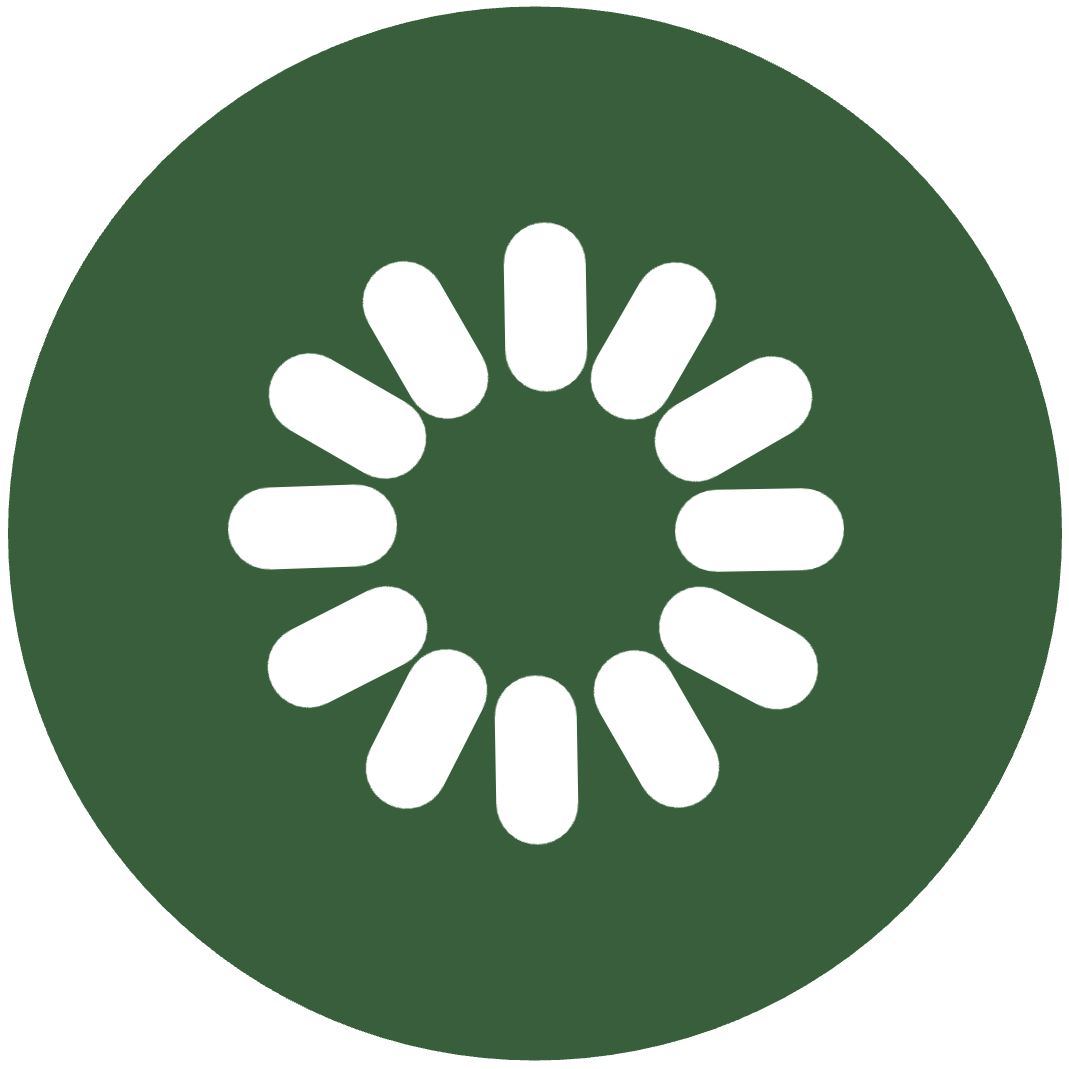
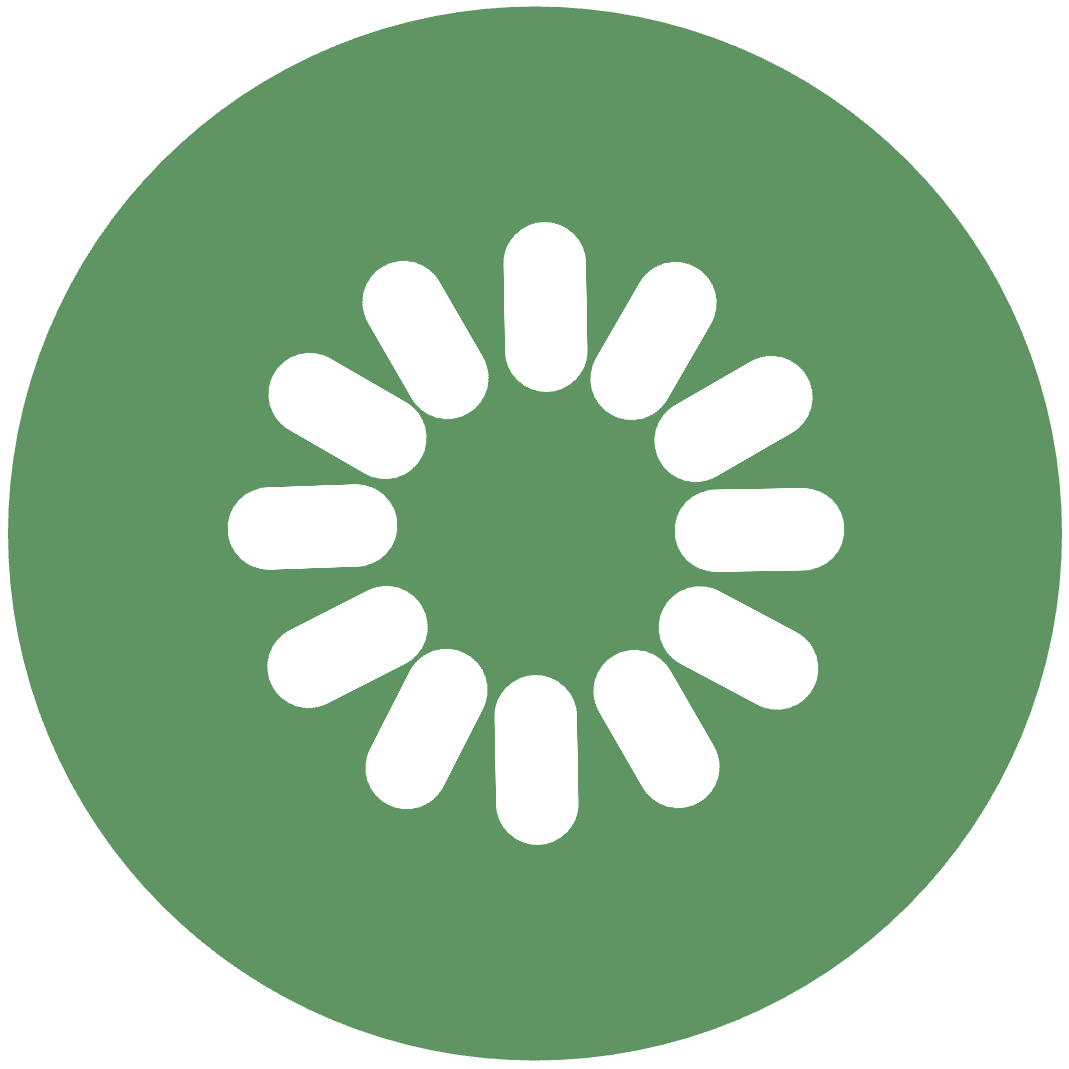
feat: 출입증 발급 내역 상세 페이지 UI 수정 (#39)
* fix: 상세 페이지 url 파라미터에서 memberId가 undefined로 나오던 오류 수정

* fix: 사이드바 버튼 img 교체

* fix: 출입증 발급 상세 페이지 진입 시에도 사이드바에서 '출입증 발급 내역' 항목이 선택되도록 처리

* fix: 출입증 발급 상세 페이지 url 파라미터를 passId로 수정

Pull request: [KW-283] feat: 출입증 발급 내역 상세 페이지 UI 수정
## 🔷 관련 Jira Ticket ID

[KW-283]

---
## 📌 작업 내용 및 특이사항

- 출입증 발급 내역 페이지(IssueHistoryPage.tsx)에서 상세 페이지(IssueDetailPage.tsx)로 이동할 때 passId를 url 파라미터로 전달합니다.
- 출입증 발급 상세 페이지의 url 경로를 '/issuedetail/:passId'로 수정하였습니다.
- 출입증 발급 상세 페이지 진입 시에도 사이드바에서 '출입증 발급 내역' 항목이 선택되도록 처리하였습니다.

---
## 📚 참고사항

- 사이드바 버튼 이미지를 교체했습니다.


[KW-283]: https://teamdoubleo.atlassian.net/browse/KW-283?atlOrigin=eyJpIjoiNWRkNTljNzYxNjVmNDY3MDlhMDU5Y2ZhYzA5YTRkZjUiLCJwIjoiZ2l0aHViLWNvbS1KU1cifQ

diff --git a/src/mocks/issuesData.ts b/src/mocks/issuesData.ts
@@ -1,52 +1,52 @@
 const issuesData = [
-    {memberId: "1234", name: "채민주", passId: "5678", districtId: "A010101", startTime: "2025-04-01", endTime: "2025-04-01"},
-    {memberId: "1234", name: "채민주", passId: "5678", districtId: "A010101", startTime: "2025-04-01", endTime: "2025-04-01"},
-    {memberId: "1234", name: "채민주", passId: "5678", districtId: "A010101", startTime: "2025-04-01", endTime: "2025-04-01"},
-    {memberId: "1234", name: "채민주", passId: "5678", districtId: "A010101", startTime: "2025-04-01", endTime: "2025-04-01"},
-    {memberId: "1234", name: "채민주", passId: "5678", districtId: "A010101", startTime: "2025-04-01", endTime: "2025-04-01"},
-    {memberId: "1234", name: "채민주", passId: "5678", districtId: "A010101", startTime: "2025-04-01", endTime: "2025-04-01"},
-    {memberId: "1234", name: "채민주", passId: "5678", districtId: "A010101", startTime: "2025-04-01", endTime: "2025-04-01"},
-    {memberId: "1234", name: "채민주", passId: "5678", districtId: "A010101", startTime: "2025-04-01", endTime: "2025-04-01"},
-    {memberId: "1234", name: "채민주", passId: "5678", districtId: "A010101", startTime: "2025-04-01", endTime: "2025-04-01"},
-    {memberId: "1234", name: "채민주", passId: "5678", districtId: "A010101", startTime: "2025-04-01", endTime: "2025-04-01"},
-    {memberId: "1234", name: "채민주", passId: "5678", districtId: "A010101", startTime: "2025-04-01", endTime: "2025-04-01"},
-    {memberId: "1234", name: "채민주", passId: "5678", districtId: "A010101", startTime: "2025-04-01", endTime: "2025-04-01"},
-    {memberId: "1234", name: "채민주", passId: "5678", districtId: "A010101", startTime: "2025-04-01", endTime: "2025-04-01"},
-    {memberId: "1234", name: "채민주", passId: "5678", districtId: "A010101", startTime: "2025-04-01", endTime: "2025-04-01"},
-    {memberId: "1234", name: "채민주", passId: "5678", districtId: "A010101", startTime: "2025-04-01", endTime: "2025-04-01"},
-    {memberId: "1234", name: "채민주", passId: "5678", districtId: "A010101", startTime: "2025-04-01", endTime: "2025-04-01"},
-    {memberId: "1234", name: "채민주", passId: "5678", districtId: "A010101", startTime: "2025-04-01", endTime: "2025-04-01"},
-    {memberId: "1234", name: "채민주", passId: "5678", districtId: "A010101", startTime: "2025-04-01", endTime: "2025-04-01"},
-    {memberId: "1234", name: "채민주", passId: "5678", districtId: "A010101", startTime: "2025-04-01", endTime: "2025-04-01"},
-    {memberId: "1234", name: "채민주", passId: "5678", districtId: "A010101", startTime: "2025-04-01", endTime: "2025-04-01"},
-    {memberId: "1234", name: "채민주", passId: "5678", districtId: "A010101", startTime: "2025-04-01", endTime: "2025-04-01"},
-    {memberId: "1234", name: "채민주", passId: "5678", districtId: "A010101", startTime: "2025-04-01", endTime: "2025-04-01"},
-    {memberId: "1234", name: "채민주", passId: "5678", districtId: "A010101", startTime: "2025-04-01", endTime: "2025-04-01"},
-    {memberId: "1234", name: "채민주", passId: "5678", districtId: "A010101", startTime: "2025-04-01", endTime: "2025-04-01"},
-    {memberId: "1234", name: "채민주", passId: "5678", districtId: "A010101", startTime: "2025-04-01", endTime: "2025-04-01"},
-    {memberId: "1234", name: "채민주", passId: "5678", districtId: "A010101", startTime: "2025-04-01", endTime: "2025-04-01"},
-    {memberId: "1234", name: "채민주", passId: "5678", districtId: "A010101", startTime: "2025-04-01", endTime: "2025-04-01"},
-    {memberId: "1234", name: "채민주", passId: "5678", districtId: "A010101", startTime: "2025-04-01", endTime: "2025-04-01"},
-    {memberId: "1234", name: "채민주", passId: "5678", districtId: "A010101", startTime: "2025-04-01", endTime: "2025-04-01"},
-    {memberId: "1234", name: "채민주", passId: "5678", districtId: "A010101", startTime: "2025-04-01", endTime: "2025-04-01"},
-    {memberId: "1234", name: "채민주", passId: "5678", districtId: "A010101", startTime: "2025-04-01", endTime: "2025-04-01"},
-    {memberId: "1234", name: "채민주", passId: "5678", districtId: "A010101", startTime: "2025-04-01", endTime: "2025-04-01"},
-    {memberId: "1234", name: "채민주", passId: "5678", districtId: "A010101", startTime: "2025-04-01", endTime: "2025-04-01"},
-    {memberId: "1234", name: "채민주", passId: "5678", districtId: "A010101", startTime: "2025-04-01", endTime: "2025-04-01"},
-    {memberId: "1234", name: "채민주", passId: "5678", districtId: "A010101", startTime: "2025-04-01", endTime: "2025-04-01"},
-    {memberId: "1234", name: "채민주", passId: "5678", districtId: "A010101", startTime: "2025-04-01", endTime: "2025-04-01"},
-    {memberId: "1234", name: "채민주", passId: "5678", districtId: "A010101", startTime: "2025-04-01", endTime: "2025-04-01"},
-    {memberId: "1234", name: "채민주", passId: "5678", districtId: "A010101", startTime: "2025-04-01", endTime: "2025-04-01"},
-    {memberId: "1234", name: "채민주", passId: "5678", districtId: "A010101", startTime: "2025-04-01", endTime: "2025-04-01"},
-    {memberId: "1234", name: "채민주", passId: "5678", districtId: "A010101", startTime: "2025-04-01", endTime: "2025-04-01"},
-    {memberId: "1234", name: "채민주", passId: "5678", districtId: "A010101", startTime: "2025-04-01", endTime: "2025-04-01"},
-    {memberId: "1234", name: "채민주", passId: "5678", districtId: "A010101", startTime: "2025-04-01", endTime: "2025-04-01"},
-    {memberId: "1234", name: "채민주", passId: "5678", districtId: "A010101", startTime: "2025-04-01", endTime: "2025-04-01"},
-    {memberId: "1234", name: "채민주", passId: "5678", districtId: "A010101", startTime: "2025-04-01", endTime: "2025-04-01"},
-    {memberId: "1234", name: "채민주", passId: "5678", districtId: "A010101", startTime: "2025-04-01", endTime: "2025-04-01"},
-    {memberId: "1234", name: "채민주", passId: "5678", districtId: "A010101", startTime: "2025-04-01", endTime: "2025-04-01"},
-    {memberId: "1234", name: "채민주", passId: "5678", districtId: "A010101", startTime: "2025-04-01", endTime: "2025-04-01"},
-    {memberId: "1234", name: "채민주", passId: "5678", districtId: "A010101", startTime: "2025-04-01", endTime: "2025-04-01"},
+    {memberId: "1234", name: "채민주", passId: "1111", districtId: "A010101", startTime: "2025-04-01", endTime: "2025-04-01"},
+    {memberId: "1234", name: "채민주", passId: "2222", districtId: "A010101", startTime: "2025-04-01", endTime: "2025-04-01"},
+    {memberId: "1234", name: "채민주", passId: "3333", districtId: "A010101", startTime: "2025-04-01", endTime: "2025-04-01"},
+    {memberId: "1234", name: "채민주", passId: "4444", districtId: "A010101", startTime: "2025-04-01", endTime: "2025-04-01"},
+    {memberId: "1234", name: "채민주", passId: "5555", districtId: "A010101", startTime: "2025-04-01", endTime: "2025-04-01"},
+    {memberId: "1234", name: "채민주", passId: "6666", districtId: "A010101", startTime: "2025-04-01", endTime: "2025-04-01"},
+    {memberId: "1234", name: "채민주", passId: "7777", districtId: "A010101", startTime: "2025-04-01", endTime: "2025-04-01"},
+    {memberId: "1234", name: "채민주", passId: "8888", districtId: "A010101", startTime: "2025-04-01", endTime: "2025-04-01"},
+    {memberId: "1234", name: "채민주", passId: "9999", districtId: "A010101", startTime: "2025-04-01", endTime: "2025-04-01"},
+    {memberId: "1234", name: "채민주", passId: "1000", districtId: "A010101", startTime: "2025-04-01", endTime: "2025-04-01"},
+    {memberId: "1234", name: "채민주", passId: "1100", districtId: "A010101", startTime: "2025-04-01", endTime: "2025-04-01"},
+    {memberId: "1234", name: "채민주", passId: "1200", districtId: "A010101", startTime: "2025-04-01", endTime: "2025-04-01"},
+    {memberId: "1234", name: "채민주", passId: "1300", districtId: "A010101", startTime: "2025-04-01", endTime: "2025-04-01"},
+    {memberId: "1234", name: "채민주", passId: "1400", districtId: "A010101", startTime: "2025-04-01", endTime: "2025-04-01"},
+    {memberId: "1234", name: "채민주", passId: "1500", districtId: "A010101", startTime: "2025-04-01", endTime: "2025-04-01"},
+    {memberId: "1234", name: "채민주", passId: "1600", districtId: "A010101", startTime: "2025-04-01", endTime: "2025-04-01"},
+    {memberId: "1234", name: "채민주", passId: "1700", districtId: "A010101", startTime: "2025-04-01", endTime: "2025-04-01"},
+    {memberId: "1234", name: "채민주", passId: "1800", districtId: "A010101", startTime: "2025-04-01", endTime: "2025-04-01"},
+    {memberId: "1234", name: "채민주", passId: "1900", districtId: "A010101", startTime: "2025-04-01", endTime: "2025-04-01"},
+    {memberId: "1234", name: "채민주", passId: "2000", districtId: "A010101", startTime: "2025-04-01", endTime: "2025-04-01"},
+    {memberId: "1234", name: "채민주", passId: "2100", districtId: "A010101", startTime: "2025-04-01", endTime: "2025-04-01"},
+    {memberId: "1234", name: "채민주", passId: "2200", districtId: "A010101", startTime: "2025-04-01", endTime: "2025-04-01"},
+    {memberId: "1234", name: "채민주", passId: "2300", districtId: "A010101", startTime: "2025-04-01", endTime: "2025-04-01"},
+    {memberId: "1234", name: "채민주", passId: "2400", districtId: "A010101", startTime: "2025-04-01", endTime: "2025-04-01"},
+    {memberId: "1234", name: "채민주", passId: "2500", districtId: "A010101", startTime: "2025-04-01", endTime: "2025-04-01"},
+    {memberId: "1234", name: "채민주", passId: "2600", districtId: "A010101", startTime: "2025-04-01", endTime: "2025-04-01"},
+    {memberId: "1234", name: "채민주", passId: "2700", districtId: "A010101", startTime: "2025-04-01", endTime: "2025-04-01"},
+    {memberId: "1234", name: "채민주", passId: "2800", districtId: "A010101", startTime: "2025-04-01", endTime: "2025-04-01"},
+    {memberId: "1234", name: "채민주", passId: "2900", districtId: "A010101", startTime: "2025-04-01", endTime: "2025-04-01"},
+    {memberId: "1234", name: "채민주", passId: "3000", districtId: "A010101", startTime: "2025-04-01", endTime: "2025-04-01"},
+    {memberId: "1234", name: "채민주", passId: "3100", districtId: "A010101", startTime: "2025-04-01", endTime: "2025-04-01"},
+    {memberId: "1234", name: "채민주", passId: "3200", districtId: "A010101", startTime: "2025-04-01", endTime: "2025-04-01"},
+    {memberId: "1234", name: "채민주", passId: "3300", districtId: "A010101", startTime: "2025-04-01", endTime: "2025-04-01"},
+    {memberId: "1234", name: "채민주", passId: "3400", districtId: "A010101", startTime: "2025-04-01", endTime: "2025-04-01"},
+    {memberId: "1234", name: "채민주", passId: "3500", districtId: "A010101", startTime: "2025-04-01", endTime: "2025-04-01"},
+    {memberId: "1234", name: "채민주", passId: "3600", districtId: "A010101", startTime: "2025-04-01", endTime: "2025-04-01"},
+    {memberId: "1234", name: "채민주", passId: "3700", districtId: "A010101", startTime: "2025-04-01", endTime: "2025-04-01"},
+    {memberId: "1234", name: "채민주", passId: "3800", districtId: "A010101", startTime: "2025-04-01", endTime: "2025-04-01"},
+    {memberId: "1234", name: "채민주", passId: "3900", districtId: "A010101", startTime: "2025-04-01", endTime: "2025-04-01"},
+    {memberId: "1234", name: "채민주", passId: "4000", districtId: "A010101", startTime: "2025-04-01", endTime: "2025-04-01"},
+    {memberId: "1234", name: "채민주", passId: "4100", districtId: "A010101", startTime: "2025-04-01", endTime: "2025-04-01"},
+    {memberId: "1234", name: "채민주", passId: "4200", districtId: "A010101", startTime: "2025-04-01", endTime: "2025-04-01"},
+    {memberId: "1234", name: "채민주", passId: "4300", districtId: "A010101", startTime: "2025-04-01", endTime: "2025-04-01"},
+    {memberId: "1234", name: "채민주", passId: "4400", districtId: "A010101", startTime: "2025-04-01", endTime: "2025-04-01"},
+    {memberId: "1234", name: "채민주", passId: "4500", districtId: "A010101", startTime: "2025-04-01", endTime: "2025-04-01"},
+    {memberId: "1234", name: "채민주", passId: "4600", districtId: "A010101", startTime: "2025-04-01", endTime: "2025-04-01"},
+    {memberId: "1234", name: "채민주", passId: "4700", districtId: "A010101", startTime: "2025-04-01", endTime: "2025-04-01"},
+    {memberId: "1234", name: "채민주", passId: "4800", districtId: "A010101", startTime: "2025-04-01", endTime: "2025-04-01"},
 
 ];
 

diff --git a/src/components/layout/Sidebar.tsx b/src/components/layout/Sidebar.tsx
@@ -57,17 +57,29 @@ const Sidebar = () => {
 
   // 현재 URL 경로에 따라 사이드바의 선택 메뉴 및 그룹 상태를 설정
   useEffect(() => {
-    const foundEntry = Object.entries(menuPathMap).find(
-      ([_, path]) => path === location.pathname
-    );
-
-    if (foundEntry) {
-      const [menu, path] = foundEntry;
-      setSelectedMenu(menu);
-
-      if (path.includes('/dashboard')) setSelectedGroup('dashboard');
-      else if (path.includes('/entry') || path.includes('/issue')) setSelectedGroup('access');
-      else if (path.includes('/admin')) setSelectedGroup('admin');
+    let matchedMenu: string | null = null;
+    let matchedGroup: Group | null = null;
+  
+    if (location.pathname.includes('/issuedetail')) {
+      matchedMenu = '출입증 발급 내역';
+      matchedGroup = 'access';
+    } else if (location.pathname.includes('/issuehistory')) {
+      matchedMenu = '출입증 발급 내역';
+      matchedGroup = 'access';
+    } else if (location.pathname.includes('/entry')) {
+      matchedMenu = '출입 내역';
+      matchedGroup = 'access';
+    } else if (location.pathname.includes('/dashboard')) {
+      matchedMenu = '대시보드';
+      matchedGroup = 'dashboard';
+    } else if (location.pathname.includes('/admin')) {
+      matchedMenu = '마이페이지1'; // 또는 조건 추가 가능
+      matchedGroup = 'admin';
+    }
+  
+    if (matchedMenu && matchedGroup) {
+      setSelectedMenu(matchedMenu);
+      setSelectedGroup(matchedGroup);
     }
   }, [location.pathname]);
 

diff --git a/src/pages/IssueDetailPage.tsx b/src/pages/IssueDetailPage.tsx
@@ -29,9 +29,9 @@ const districtsColums = [
 ]
 
 const districts = [
-    { districtName: "암병동", districtDescription: "3층 암병동"},
-    { districtName: "암병동", districtDescription: "3층 암병동"},
-    { districtName: "암병동", districtDescription: "3층 암병동"}
+    { districtName: "암병동", districtDescription: "서울 성모병원 3층에 위치한 암병동"},
+    { districtName: "암병동", districtDescription: "서울 성모병원 3층에 위치한 암병동"},
+    { districtName: "암병동", districtDescription: "서울 성모병원 3층에 위치한 암병동"}
 ]
 
 

diff --git a/src/pages/IssueHistoryPage.tsx b/src/pages/IssueHistoryPage.tsx
@@ -43,13 +43,12 @@ const IssueHistoryPage = () => {
             currentPage={breadCrumbInfo.currentPage}
             currentSidebarItem={breadCrumbInfo.currentSidebarItem}
         />
-
           <div className="issue-history-container">
             <div className="issue-history-title">출입증 발급 내역 조회</div>
             <DefaultTable 
                 tableTitles={issueColums} 
                 data={paginatedData}
-                onRowClick={(row) => navigate(`/issuedetail/${row.requestId}`)}
+                onRowClick={(row) => navigate(`/issuedetail/${row.passId}`)}
             />
             <Pagination
               currentPage={currentPage}

diff --git a/src/App.tsx b/src/App.tsx
@@ -18,7 +18,6 @@ function App() {
 
         {/* 로그인 페이지 */}
         <Route path="/admin/login" element={<AdminLogin />} />
-
         {/* 보호된 라우트 그룹 */}
         <Route element={<PrivateRoute />}>
           <Route>